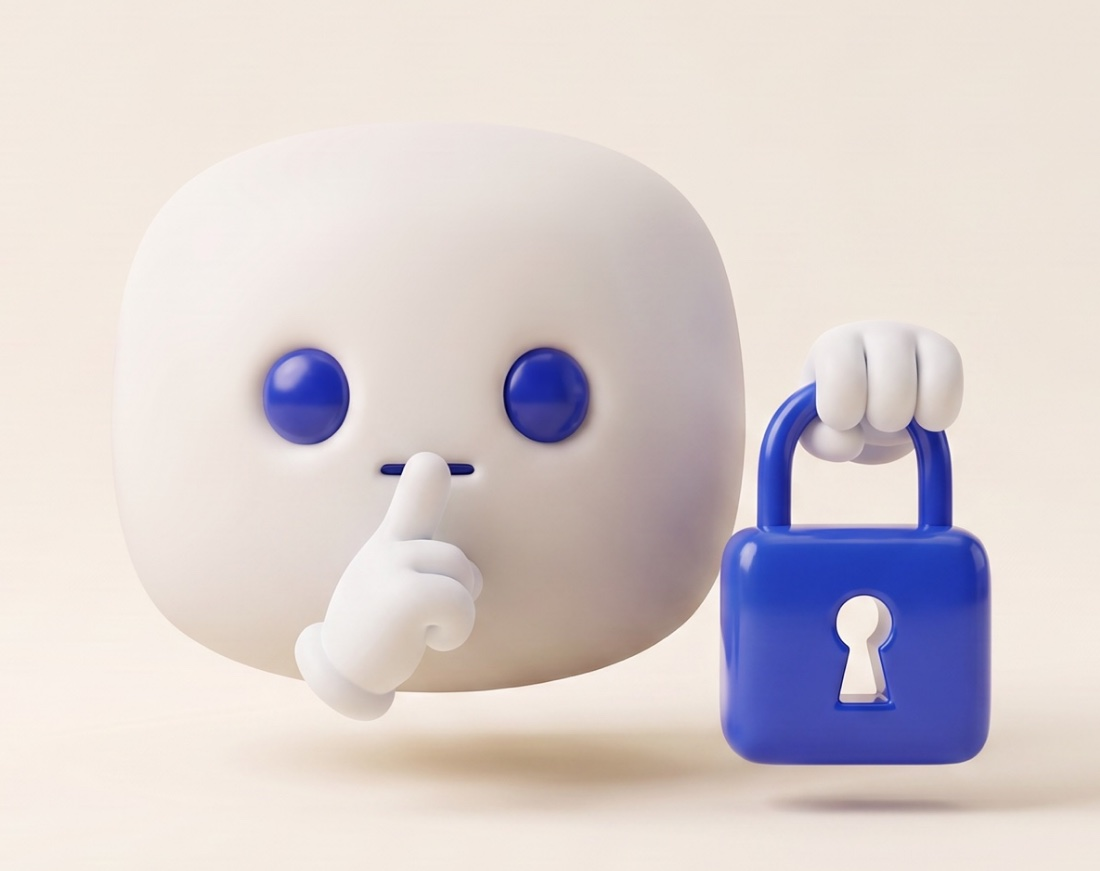
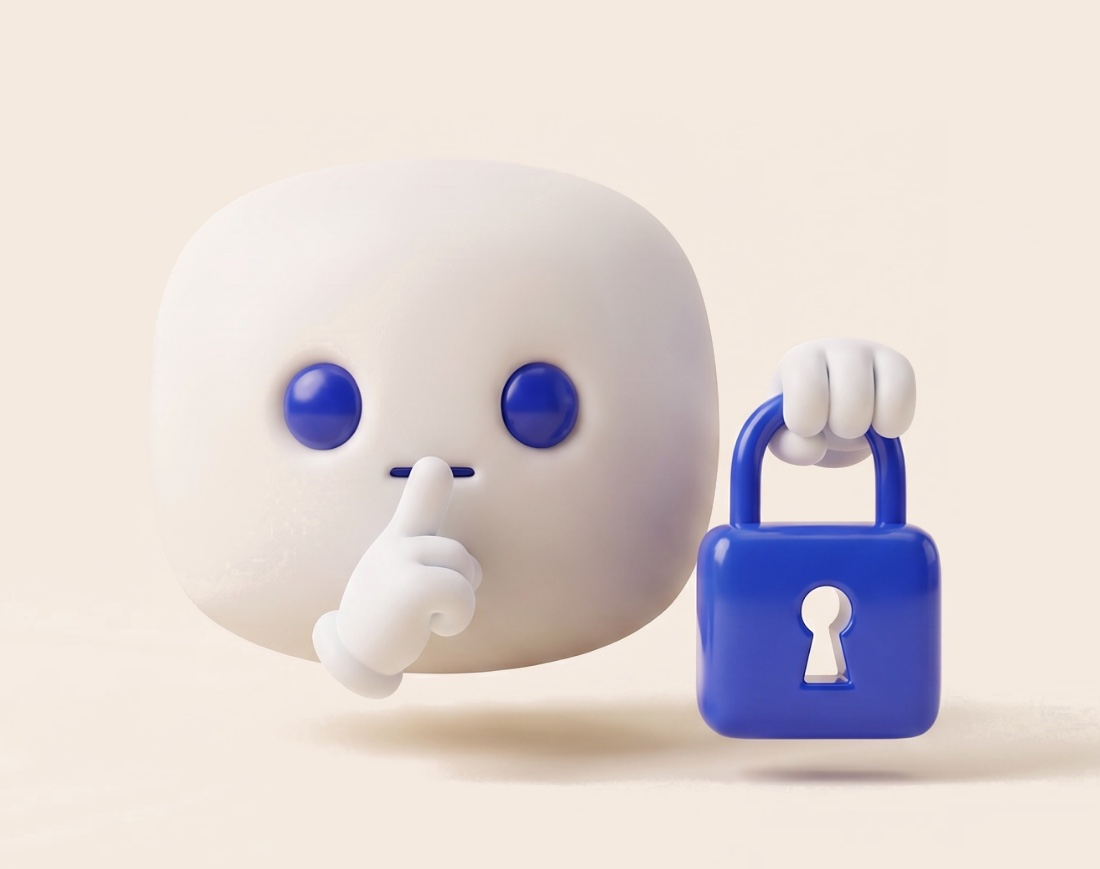
mascot: nothing cut any more — crops stay inside each render, backdrops flattened, soft rectangular mask
The radial fade was clipping corner props (dumbbell, PR stars, fork). Every
mascot placement now uses a soft 9%-per-side rectangular mask. The six
high-res crops are re-cut inside the render's own edge (padding past it
with flat cream showed a seam against the vignette) with the character
at ~74% of the box, and the vignetted backdrops are flattened to the page
cream in two passes that leave the body and floor shadow alone. The
"i remember" step uses the founder's wifi-arcs + chart-phone render.

diff --git a/index.html b/index.html
@@ -447,13 +447,14 @@ picture.ic img{display:block;width:100%;height:100%;object-fit:cover;border-radi
 #proof .proof-copy .step-copy{position:static;display:none}
 #proof .proof-copy .step-copy.on{display:block}
 #proof .stepper{margin-top:28px}
-.proof-mascot{position:absolute;left:-8%;bottom:-4%;width:clamp(320px,52vh,520px);aspect-ratio:462/365;pointer-events:none;user-select:none}   /* the sheet tiles are ~462×365; the character fills ~65% of each */
+.proof-mascot{position:absolute;left:-8%;bottom:-6%;width:clamp(340px,54vh,540px);aspect-ratio:462/365;pointer-events:none;user-select:none}   /* crops stay inside each render (its vignette seams against flat cream); the mask is a soft 9% edge on all four sides, not a circle, so corner props survive */
 /* the renders are JPEGs on their own cream; a radial mask feathers each one
    into the section so no edge ever shows, and the floor shadow comes along */
 .proof-mascot img{
   position:absolute;inset:0;width:100%;height:100%;object-fit:cover;
-  -webkit-mask-image:radial-gradient(ellipse 50% 50% at 50% 50%,#000 70%,transparent 96%);
-          mask-image:radial-gradient(ellipse 50% 50% at 50% 50%,#000 70%,transparent 96%);
+  -webkit-mask-image:linear-gradient(to right,transparent,#000 9%,#000 91%,transparent),linear-gradient(to bottom,transparent,#000 9%,#000 91%,transparent);
+          mask-image:linear-gradient(to right,transparent,#000 9%,#000 91%,transparent),linear-gradient(to bottom,transparent,#000 9%,#000 91%,transparent);
+  -webkit-mask-composite:source-in;mask-composite:intersect;
   opacity:0;transition:opacity .35s ease;
 }
 .proof-mascot img.on{opacity:1}
@@ -506,11 +507,12 @@ html.dark #proof .ph-status{background:var(--fill)}
 .facts{list-style:none;margin-top:32px;display:flex;flex-direction:column;gap:24px}
 .facts li{font-size:20px;line-height:1.4;color:var(--ink)}
 /* a render beside/below copy: feathered into the cream like the proof corner */
-.side-mascot{display:block;width:min(360px,70%);margin:28px 0 0 -6%;line-height:0}
+.side-mascot{display:block;width:min(380px,74%);margin:20px 0 0 -8%;line-height:0}
 .side-mascot img{
   display:block;width:100%;height:auto;
-  -webkit-mask-image:radial-gradient(ellipse 50% 50% at 50% 50%,#000 70%,transparent 96%);
-          mask-image:radial-gradient(ellipse 50% 50% at 50% 50%,#000 70%,transparent 96%);
+  -webkit-mask-image:linear-gradient(to right,transparent,#000 9%,#000 91%,transparent),linear-gradient(to bottom,transparent,#000 9%,#000 91%,transparent);
+          mask-image:linear-gradient(to right,transparent,#000 9%,#000 91%,transparent),linear-gradient(to bottom,transparent,#000 9%,#000 91%,transparent);
+  -webkit-mask-composite:source-in;mask-composite:intersect;
 }
 .thread-card{--bg:var(--card);background:var(--card);border-radius:24px;padding:22px;max-width:360px;margin:0 auto;box-shadow:0 1px 0 var(--line)}
 .thread-card .thread{font-size:16px}
@@ -522,9 +524,10 @@ html.dark #proof .ph-status{background:var(--fill)}
 .photo-slot{position:relative;aspect-ratio:4/5;border-radius:16px;overflow:hidden;background:var(--cream)}
 .photo-slot > img,.photo-slot > video{position:absolute;inset:0;width:100%;height:100%;object-fit:cover}
 .photo-slot img.placeholder{
-  position:absolute;left:50%;top:50%;width:118%;height:auto;max-width:none;transform:translate(-50%,-50%);object-fit:contain;
-  -webkit-mask-image:radial-gradient(ellipse 50% 50% at 50% 50%,#000 70%,transparent 96%);
-          mask-image:radial-gradient(ellipse 50% 50% at 50% 50%,#000 70%,transparent 96%);
+  position:absolute;left:50%;top:50%;width:100%;height:auto;max-width:none;transform:translate(-50%,-50%);object-fit:contain;
+  -webkit-mask-image:linear-gradient(to right,transparent,#000 9%,#000 91%,transparent),linear-gradient(to bottom,transparent,#000 9%,#000 91%,transparent);
+          mask-image:linear-gradient(to right,transparent,#000 9%,#000 91%,transparent),linear-gradient(to bottom,transparent,#000 9%,#000 91%,transparent);
+  -webkit-mask-composite:source-in;mask-composite:intersect;
 }   /* the graduation tile, zoomed a little so the character fills the 4:5 card, feathered so its edges never show */
 .founder p{font-size:20px;line-height:1.5;color:var(--gray-text);margin-top:18px}
 .founder .sig{font-size:16px;color:var(--gray-text);margin-top:26px}
@@ -535,8 +538,9 @@ html.dark #proof .ph-status{background:var(--fill)}
 #signup .wrap{position:relative;z-index:1}
 .mascot{
   display:block;width:clamp(340px,48vh,560px);height:auto;aspect-ratio:1;object-fit:cover;margin:-6vh auto -40px;
-  -webkit-mask-image:radial-gradient(ellipse 50% 50% at 50% 50%,#000 70%,transparent 96%);
-          mask-image:radial-gradient(ellipse 50% 50% at 50% 50%,#000 70%,transparent 96%);
+  -webkit-mask-image:linear-gradient(to right,transparent,#000 9%,#000 91%,transparent),linear-gradient(to bottom,transparent,#000 9%,#000 91%,transparent);
+          mask-image:linear-gradient(to right,transparent,#000 9%,#000 91%,transparent),linear-gradient(to bottom,transparent,#000 9%,#000 91%,transparent);
+  -webkit-mask-composite:source-in;mask-composite:intersect;
 }
 #signup h2{font-size:clamp(36px,6.2vw,92px);line-height:1.08}
 #signup h2 .b{color:var(--blue)}

diff --git a/CLAUDE.md b/CLAUDE.md
@@ -66,7 +66,7 @@ The site is entirely self-contained vanilla HTML/CSS/JS with no framework or bui
 
 **Sign-up chat** — unchanged from the previous generation (CSS + JS carried over verbatim; its avatar is now the mascot). Every CTA calls `window.openWaitlist(source)`: `heroCtaTop`, `floatCta`, `closeCta` (the nav button was removed 2026-11-14; the nav is just the brand; the sign-up script's `navCta` lookup is null-safe). The tests in `tests/live_signup.test.mjs` walk it in jsdom with `fetch` stubbed; never run it against the real backend in tests.
 
-**Mascot** — the current character is the founder's 2026-11-14 "marshmallow" set in `assets/mascot/v2/` (nine 1800px JPEG renders on their own cream, stored as 900px WebP + JPEG: `cued-texting`, `-sleep` (pillow), `-whistle`, `-dumbbell` (headband), `-ball`, `-run`, `-bottle`, `-trophy`, `-ball-blank` (faceless, unused), plus `cued-face-256` — a square crop of the ball render's head, used as the round avatar on the phone headers and the sign-up card). The renders are NOT transparent: wherever one sits on the page it's on `--cream` (`#F5EAE0`, sampled from their backdrop) with a radial `mask-image` feathering only the outer rim (solid to 70%, gone by 96% — tighter cut off raised arms and props), so never place one on white or a blue tint. Placements: hero = the two video clips; proof = one render per step in the bottom-left corner of the sticky left column (`.proof-mascot` > five `img`s, `.on` crossfades with the step: `cued-week` calendar wink / `cued-sets` dumbbell + PR + clipboard / `cued-dinner` bowl / `cued-remember` head-tap + chart phone / `cued-watch` — `cued-week`/`-sets`/`-dinner`/`-remember`/`-watch`/`-lock` (privacy, under the facts as `.side-mascot`) are 1100px-wide crops of the founder's full-size square renders (2026-11-14, cropped to the ~462:365 framing so the page's boxes didn't move; their backdrop already matches `--cream`); `cued-grad` (the berkeley founder slot until there's a photo), `cued-halo` and `cued-chat` (unused) are still the lower-res ~462×365 slices from the two 3×2 contact sheets, re-toned +6/+3/+4; the earlier square renders whistle/trophy/bottle/texting/sleep/ball/run/bottle remain in the folder, unused except `cued-dumbbell` and `cued-face-256`); close = the dumbbell render over "your cue to lock in." (the close moved from `--tint-2` to cream for this). The older headband mascot files (`cued-avatar-*`, `cued-mascot-flex`, `cued-mascot-texting`, `cued-mascot-wave`) are retired on `index.html`; `index-b.html` still uses the live-avatar layers.
+**Mascot** — the current character is the founder's 2026-11-14 "marshmallow" set in `assets/mascot/v2/` (nine 1800px JPEG renders on their own cream, stored as 900px WebP + JPEG: `cued-texting`, `-sleep` (pillow), `-whistle`, `-dumbbell` (headband), `-ball`, `-run`, `-bottle`, `-trophy`, `-ball-blank` (faceless, unused), plus `cued-face-256` — a square crop of the ball render's head, used as the round avatar on the phone headers and the sign-up card). The renders are NOT transparent: wherever one sits on the page it's on `--cream` (`#F5EAE0`, sampled from their backdrop) with a soft rectangular `mask-image` (two linear gradients, `mask-composite:intersect`, fading only the outer 9% of each side — a radial mask cut corner props like the dumbbell and PR stars), so never place one on white or a blue tint. Crops must stay INSIDE the render: the backdrops have a vignette, so padding past the edge with flat cream shows a seam. Placements: hero = the two video clips; proof = one render per step in the bottom-left corner of the sticky left column (`.proof-mascot` > five `img`s, `.on` crossfades with the step: `cued-week` calendar wink / `cued-sets` dumbbell + PR + clipboard / `cued-dinner` bowl / `cued-remember` head-tap + chart phone / `cued-watch` — `cued-week`/`-sets`/`-dinner`/`-remember`/`-watch`/`-lock` (privacy, under the facts as `.side-mascot`) are 1100px-wide crops of the founder's full-size square renders (2026-11-14; 462:365 framing, character ~74% of the crop where the render allows, never cropped past the render's edge; `cued-remember` is the wifi-arcs + chart-phone render); `cued-grad` (the berkeley founder slot until there's a photo), `cued-halo` and `cued-chat` (unused) are still the lower-res ~462×365 slices from the two 3×2 contact sheets, re-toned +6/+3/+4; the earlier square renders whistle/trophy/bottle/texting/sleep/ball/run/bottle remain in the folder, unused except `cued-dumbbell` and `cued-face-256`); close = the dumbbell render over "your cue to lock in." (the close moved from `--tint-2` to cream for this). The older headband mascot files (`cued-avatar-*`, `cued-mascot-flex`, `cued-mascot-texting`, `cued-mascot-wave`) are retired on `index.html`; `index-b.html` still uses the live-avatar layers.
 
 ## Images / Assets
 
